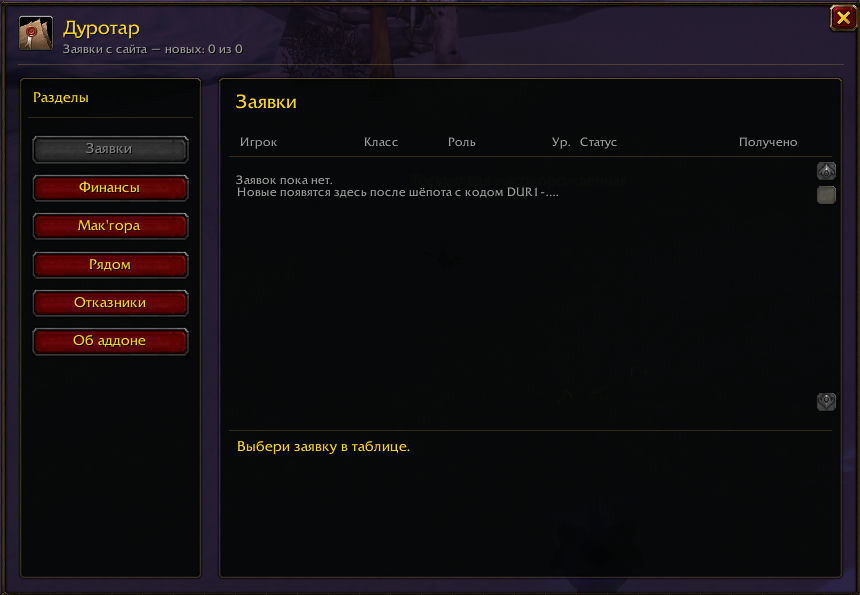
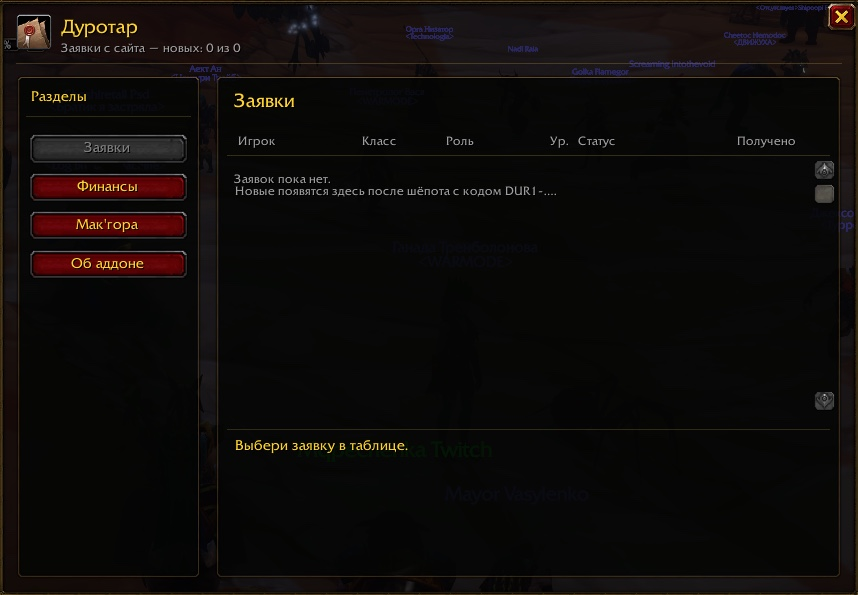
feat(site): rewrite Mak'gora code section and refresh addon screenshots
Replace the feature-by-feature list with a narrative code section, update the addon gallery to the new Screenshots and drop the removed Nearby shot.

Changed region(s): [[0.0, 0.0, 1.0, 1.0]]

diff --git a/src/data/addons.ts b/src/data/addons.ts
@@ -21,17 +21,12 @@ export type AddonShot = {
   caption: string;
 };
 
-export type AddonProcessStep = {
-  title: string;
-  text: string;
-};
-
 export type AddonProcess = {
   kicker: string;
   title: string;
   lead: string;
-  steps: AddonProcessStep[];
-  meaning: string;
+  story: string[];
+  creed: string;
 };
 
 export type Addon = {
@@ -84,12 +79,12 @@ export const addons: Addon[] = [
       },
       {
         icon: 'people',
-        title: 'Рядом',
+        title: 'Мак’гора · Рядом',
         text: 'Согильдейцы в сети и в зоне. Кнопка «В бой!» собирает группу, когда нарушение требует ответа.',
       },
       {
         icon: 'people',
-        title: 'Отказники',
+        title: 'Мак’гора · Отказники',
         text: 'Кто отказался от призыва — отдельный список. Крестик возвращает игрока в очередь.',
       },
       {
@@ -99,67 +94,42 @@ export const addons: Addon[] = [
       },
     ],
     process: {
-      kicker: 'Кодекс Мак’горы',
-      title: 'Как это работает',
+      kicker: 'Обычай степей',
+      title: 'Кодекс Мак’горы',
       lead:
-        'Мак’гора — не месть и не обида. Это священный поединок: честная смерть закрывает спор, ' +
-        'и мстить победителю нельзя. Наказание ждёт только того, кто нарушил обычай — ударил в спину, ' +
-        'добил, обманул или сбежал от честного боя. Durotar хранит память о таких встречах и помогает ' +
-        'собрать своих, когда нарушение требует ответа.',
-      steps: [
-        {
-          title: 'Память о поединке',
-          text:
-            'Аддон фиксирует PvP-смерть: имя, класс, число побед, зону, координаты и красный крестик ' +
-            'на карте. Это запись для суда, а не приговор: честный поединок можно оставить без последствий.',
-        },
-        {
-          title: 'Решение — за вами',
-          text:
-            '«Око за око» — не автоматическая месть, а наблюдение за тем, кого вы считаете нарушителем. ' +
-            'Пока отметка включена, при встрече аддон подсветит неймплейт красной рамкой, покажет баннер, ' +
-            'напишет в чат и подаст звук.',
-        },
-        {
-          title: 'Призыв «В бой!»',
-          text:
-            'Если бой был нарушен и вы решили восстановить обычай, кнопка на вкладке «Рядом» собирает ' +
-            'группу — сначала самых высокоуровневых. Каждому уходит приглашение и шёпот с именем того, ' +
-            'кто должен ответить за нарушение.',
-        },
-        {
-          title: 'Отказ — не преступление',
-          text:
-            'Участие добровольное: кто отказался, попадает в «Отказники» и больше не получает призывов. ' +
-            'Вернуть его можно одним крестиком. Кодекс держится на тех, кто пришёл, а не на принуждении.',
-        },
+        'Мак’гора — священный поединок, а не повод для мести. Когда бой честен, смерть ставит точку: ' +
+        'победитель отстоял своё право, и спор закрыт. Ответа заслуживает лишь тот, кто отверг обычай — ' +
+        'ударил в спину, обманул, добил или бежал.',
+      story: [
+        'Степь помнит, где пролилась кровь. Durotar сохраняет след каждой PvP-смерти — имя и класс ' +
+        'противника, число его побед, место схватки и координаты; на карте остаётся красный крест. ' +
+        'Но память не выносит приговора: она лишь помогает восстановить, что произошло. Решение — за тобой.',
+        'Если ты сам сочтёшь обычай нарушенным, отметь виновного. При новой встрече его выдаст красная ' +
+        'рамка, а предупреждение в чате и звук не позволят пройти мимо, будто ничего не случилось.',
+        'И только тогда, когда решишь восстановить закон степи, зови своих кнопкой «В бой!». Durotar ' +
+        'позовёт воинов поблизости — начиная с самых опытных; приглашение и шёпот назовут того, чьё ' +
+        'бесчестье требует ответа. Но призыв не приказ: отказавшийся больше не получит зова, пока его ' +
+        'не вернут в список. Встать рядом — выбор каждого.',
       ],
-      meaning:
-        'Смысл Мак’горы — восстановить справедливость обычая, а не отомстить за проигрыш. Честный ' +
-        'поединок не требует ответа: победитель прав, и зла на него не держат. Ответ держит только ' +
-        'нарушитель — а Durotar помогает не забыть, где и с кем это произошло, и собрать тех, кто готов ' +
+      creed:
+        'Честный бой закрывает спор. Бесчестье зовёт к ответу. А зов принимают лишь те, кто сам решил ' +
         'встать за обычай.',
     },
     shots: [
       {
         src: 'img/addons/durotar-applications.jpg',
-        alt: 'Вкладка «Заявки» аддона Durotar со списком заявок в гильдию',
+        alt: 'Вкладка «Заявки» аддона Durotar: пустой список заявок и подсказка про шёпот с кодом DURI',
         caption: 'Заявки',
       },
       {
         src: 'img/addons/durotar-finance.jpg',
-        alt: 'Вкладка «Финансы» аддона Durotar: золото за сессию, источники и забеги',
+        alt: 'Вкладка «Финансы» аддона Durotar: золото за сессию, источники дохода и расходов, кнопки сброса',
         caption: 'Финансы',
       },
       {
         src: 'img/addons/durotar-makgora.jpg',
-        alt: 'Вкладка «Мак’гора» аддона Durotar: игроки, убивавшие вас в PvP',
+        alt: 'Вкладка «Мак’гора» аддона Durotar: разделы «Список», «Рядом» и «Отказники», счётчик «Око за око»',
         caption: 'Мак’гора',
-      },
-      {
-        src: 'img/addons/durotar-nearby.jpg',
-        alt: 'Вкладка «Рядом» аддона Durotar: согильдейцы в сети и в зоне',
-        caption: 'Рядом',
       },
     ],
     install: [
